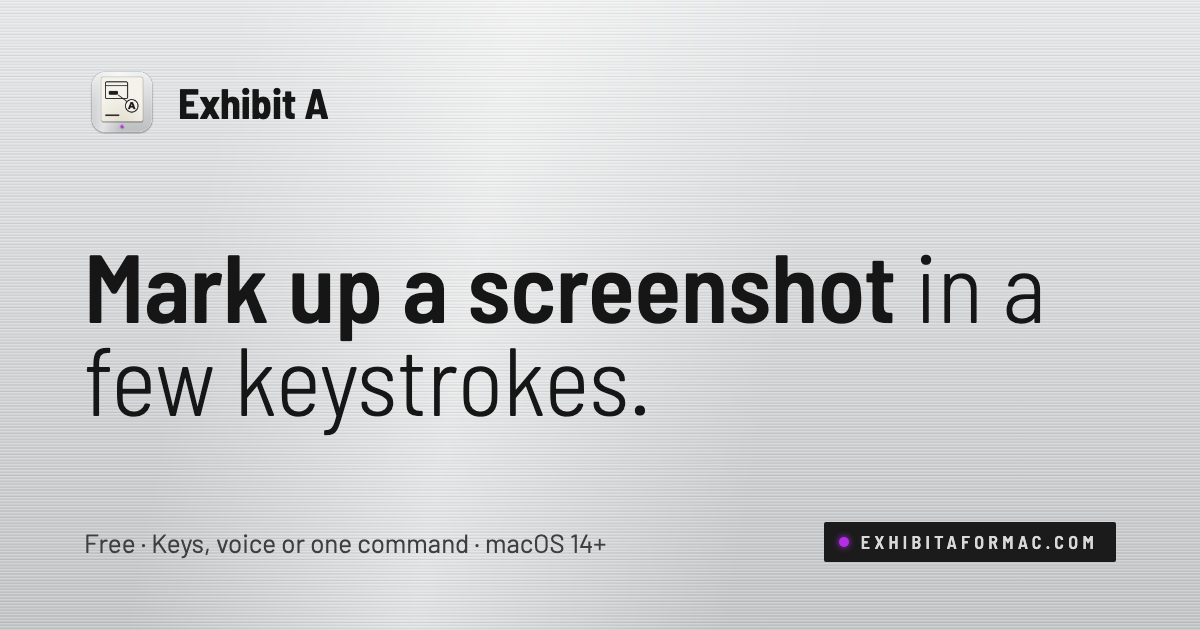
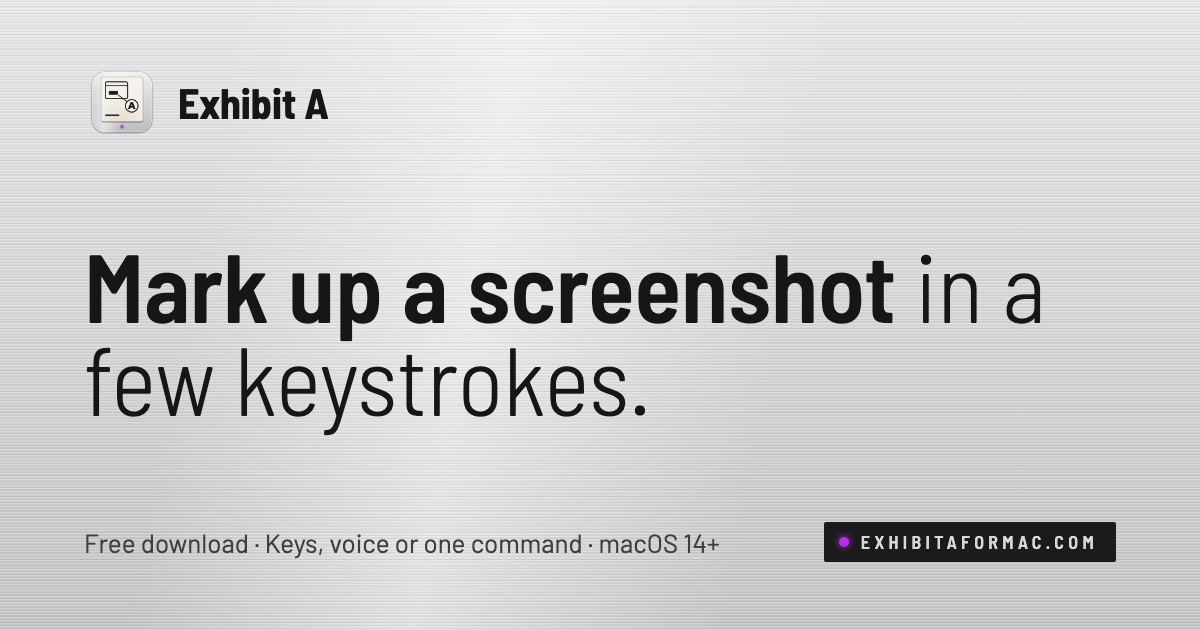
Point the site's calls to action at the released download
v0.1.0 is out and the repo is public, so "Coming soon" becomes the DMG
link, View source, and the Homebrew cask, as on Kill Cord's site.

Changed region(s): [[0.1233, 0.8444, 0.6167, 0.8746]]

diff --git a/site/src/pages/index.html b/site/src/pages/index.html
@@ -5,9 +5,11 @@
       <h1 id="hero-title">Mark up a screenshot <span>in a few keystrokes.</span></h1>
       <p class="bx-lede">Exhibit A is a menu bar screenshot tool. Press one key per mark, say what you want changed, or let an agent do it with one command. Emails, keys and card numbers blur so the pixels underneath are gone from the file.</p>
       <div class="bx-cta">
-        <span class="bx-btn soon-btn">Coming soon</span>
-        <a class="bx-btn sec" href="#agents">See the command line <span aria-hidden="true">↓</span></a>
+        <a class="bx-btn" href="{{download_url}}">Download for Mac <span aria-hidden="true">↓</span></a>
+        <a class="bx-btn sec" href="https://github.com/coreyhaines31/exhibita">View source <span aria-hidden="true">↗</span></a>
       </div>
+      <p class="brew-label">Or install with Homebrew</p>
+      <pre class="bx-code brew"><code>brew install --cask coreyhaines31/tap/exhibit-a</code></pre>
       <p class="bx-meta">Free with no account · Captures stay on your Mac · macOS 14 Sonoma or later</p>
     </div>
     <figure class="stage" aria-labelledby="stage-caption">
@@ -170,16 +172,16 @@ exhibit mcp</code></pre>
 <section class="bx-section" id="faq" aria-labelledby="faq-title">
   <div class="bx-wrap">
     <span class="bx-eyebrow">Questions</span>
-    <h2 id="faq-title">Before it ships.</h2>
+    <h2 id="faq-title">Before you install.</h2>
     <div class="bx-faq faq-list">
-      <details><summary>When can I get it?</summary><p>Exhibit A isn’t released yet. It’s built and unit tested, and still needs checking on a real Mac before the first release. The download will be on this page when it ships.</p></details>
+      <details><summary>How do I get it?</summary><p>Download the DMG from this page, or run <code>brew install --cask coreyhaines31/tap/exhibit-a</code>. It needs macOS 14 Sonoma or later, and checks for updates itself.</p></details>
       <details><summary>What permissions does it need?</summary><p>Screen Recording, once, to take captures. The microphone and speech recognition only the first time you hold D. The <code>exhibit</code> command never has or asks for a permission; live captures come from the app.</p></details>
       <details><summary>Can someone recover what I blurred?</summary><p>Not from an exported file. It’s flat pixels, and the blur is built only from pixels outside the blurred area. In the editor, marks stay editable until you export, so you can still move or remove a blur.</p></details>
       <details><summary>Does voice need the internet?</summary><p>No. Speech is turned into text on your Mac, never on a server. The first time, macOS may need to download its speech model.</p></details>
       <details><summary>Do I need an AI model?</summary><p>No. The built-in grammar handles plain commands like “blur the emails” or “circle Pricing”. Free-form requests need a model server you run on this Mac, set up in Settings. Exhibit A only accepts an address on this Mac.</p></details>
       <details><summary>What does an agent get to see?</summary><p>The capture with detected secrets already blurred (a Settings switch), and text read from the screen marked as data, not instructions. Detection is pattern matching, so it can miss things. Never-capture apps are never in the image.</p></details>
       <details><summary>How long are captures kept?</summary><p>30 days by default, so marks stay editable. Retention is a setting, including deleting a capture once you export it, and you can purge history at any time.</p></details>
-      <details><summary>What does it cost?</summary><p>Nothing. Exhibit A is free with no account. The source is available under the Functional Source License (FSL-1.1-MIT), and each version becomes MIT two years after release.</p></details>
+      <details><summary>What does it cost?</summary><p>Nothing. Exhibit A is free with no account. The source is on GitHub under the Functional Source License (FSL-1.1-MIT), and each version becomes MIT two years after release.</p></details>
     </div>
   </div>
 </section>
@@ -188,11 +190,14 @@ exhibit mcp</code></pre>
   <div class="bx-wrap get-grid">
     <div>
       <span class="bx-eyebrow">Get Exhibit A</span>
-      <h2 id="install-title">Coming soon.</h2>
-      <p class="bx-intro">Free, with no account and no subscription. It needs macOS 14 Sonoma or later. The download and a Homebrew cask arrive with the first release.</p>
+      <h2 id="install-title">Press the hotkey. Mark it. Press Return.</h2>
+      <p class="bx-intro">Free, with no account and no subscription. It needs macOS 14 Sonoma or later. Open the DMG and drag Exhibit A to Applications, or install it with Homebrew.</p>
       <div class="bx-cta">
-        <span class="bx-btn soon-btn">Coming soon</span>
+        <a class="bx-btn" href="{{download_url}}">Download for Mac <span aria-hidden="true">↓</span></a>
+        <a class="bx-btn sec" href="https://github.com/coreyhaines31/exhibita">View source <span aria-hidden="true">↗</span></a>
       </div>
+      <p class="brew-label">Or install with Homebrew</p>
+      <pre class="bx-code brew"><code>brew install --cask coreyhaines31/tap/exhibit-a</code></pre>
     </div>
     <div class="bx-mount get-mount" aria-hidden="true">
       <span class="bx-screw"></span><span class="bx-screw"></span><span class="bx-screw"></span><span class="bx-screw"></span>

diff --git a/site/src/assets/styles.css b/site/src/assets/styles.css
@@ -16,8 +16,8 @@ img {max-width: 100%; height: auto}
 .fine {font-size: 14px; color: var(--bx-muted); line-height: 1.55; margin-top: 16px}
 .bx-btn span {line-height: 1}
 /* Not released yet: the primary button is a label, not a link. */
-.soon-btn {cursor: default; opacity: .78}
-.soon-btn:hover {filter: none}
+.brew-label {margin-top: 18px; font: 600 12px/1 var(--bx-display); letter-spacing: .2em; text-transform: uppercase; color: var(--bx-muted)}
+.brew {margin: 8px 0 0; width: fit-content}
 
 /* Header: transparent over the homepage hero, brushed elsewhere */
 .site-header {background: var(--bx-brush); border-bottom: 1px solid rgba(0,0,0,.25)}
@@ -121,6 +121,7 @@ img {max-width: 100%; height: auto}
 @media (max-width: 420px) {
   .stage-mount {padding: 12px}
   .keys {grid-template-columns: minmax(0, 1fr)}
+  .brew {width: 100%}
 }
 
 .bx-card .bx-strip, .bx-card .bx-led {justify-self: start}

diff --git a/site/src/layouts/footer.html b/site/src/layouts/footer.html
@@ -20,7 +20,7 @@
     <div class="bx-wrap">
       <a class="footer-brand" href="/"><img src="/icon-64.png" alt="" width="20" height="20">Exhibit A</a>
       <p>Mark up a screenshot in a few keystrokes.</p>
-      <div class="footer-links"><a href="/#marks">Marks</a><a href="/#voice">Voice</a><a href="/#agents">For agents</a><a href="/privacy/">Privacy</a><a href="/#install">Coming soon</a><span>© 2026 Exhibit A</span></div>
+      <div class="footer-links"><a href="/#marks">Marks</a><a href="/#voice">Voice</a><a href="/#agents">For agents</a><a href="/privacy/">Privacy</a><a href="https://github.com/coreyhaines31/exhibita">Source code</a><a href="/#install">Download</a><span>© 2026 Exhibit A</span></div>
     </div>
   </div>
 </footer>

diff --git a/site/src/layouts/header.html b/site/src/layouts/header.html
@@ -2,6 +2,6 @@
   <div class="bx-nav bx-wrap">
     <a class="bx-brand" href="/" aria-label="Exhibit A home"><img src="/icon-64.png" alt="" width="32" height="32">Exhibit A</a>
     <nav aria-label="Main navigation"><a href="/#marks">Marks</a><a href="/#voice">Voice</a><a href="/#agents">For agents</a><a href="/privacy/">Privacy</a><a href="/#faq">FAQ</a></nav>
-    <span class="bx-btn header-cta soon-btn">Coming soon</span>
+    <a class="bx-btn header-cta" href="{{download_url}}">Download</a>
   </div>
 </header>

diff --git a/site/scripts/og.html b/site/scripts/og.html
@@ -27,6 +27,6 @@
 <body>
   <div class="brand"><img src="../src/assets/family/exhibit.png" alt="">Exhibit A</div>
   <h1>Mark up a screenshot <span>in a few keystrokes.</span></h1>
-  <div class="foot"><span>Free · Keys, voice or one command · macOS 14+</span><span class="plate"><i></i>exhibitaformac.com</span></div>
+  <div class="foot"><span>Free download · Keys, voice or one command · macOS 14+</span><span class="plate"><i></i>exhibitaformac.com</span></div>
 </body>
 </html>

diff --git a/site/scripts/build.py b/site/scripts/build.py
@@ -13,8 +13,11 @@ layout = Template((source / 'layouts/base.html').read_text())
 partials = {name: (source / f'layouts/{name}.html').read_text().strip() for name in ('header', 'footer')}
 
 
+download_url = 'https://github.com/coreyhaines31/exhibita/releases/latest/download/ExhibitA.dmg'
+
+
 def fill(text):
-    return text
+    return text.replace('{{download_url}}', download_url)
 
 
 shared = {name: fill(partials[name]) for name in ('header', 'footer')}
@@ -30,6 +33,7 @@ app = {
     'operatingSystem': 'macOS 14 or later',
     'license': 'https://fsl.software/FSL-1.1-MIT.template.md',
     'image': site + 'og.png',
+    'downloadUrl': 'https://github.com/coreyhaines31/exhibita/releases/latest',
     'offers': {'@type': 'Offer', 'price': '0', 'priceCurrency': 'USD'},
 }
 
